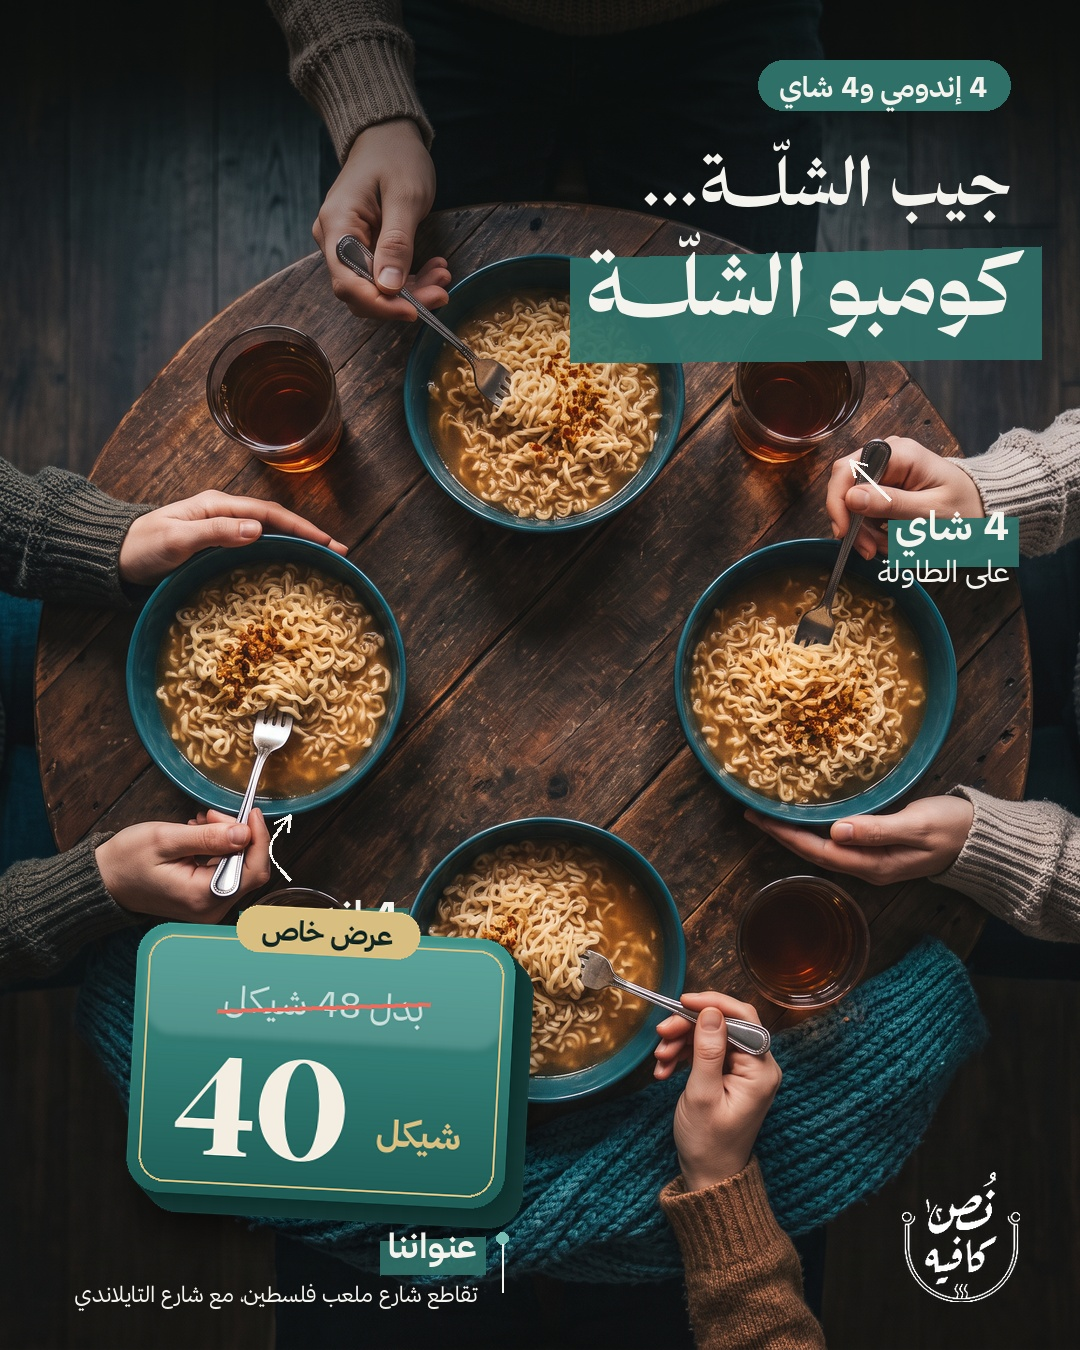
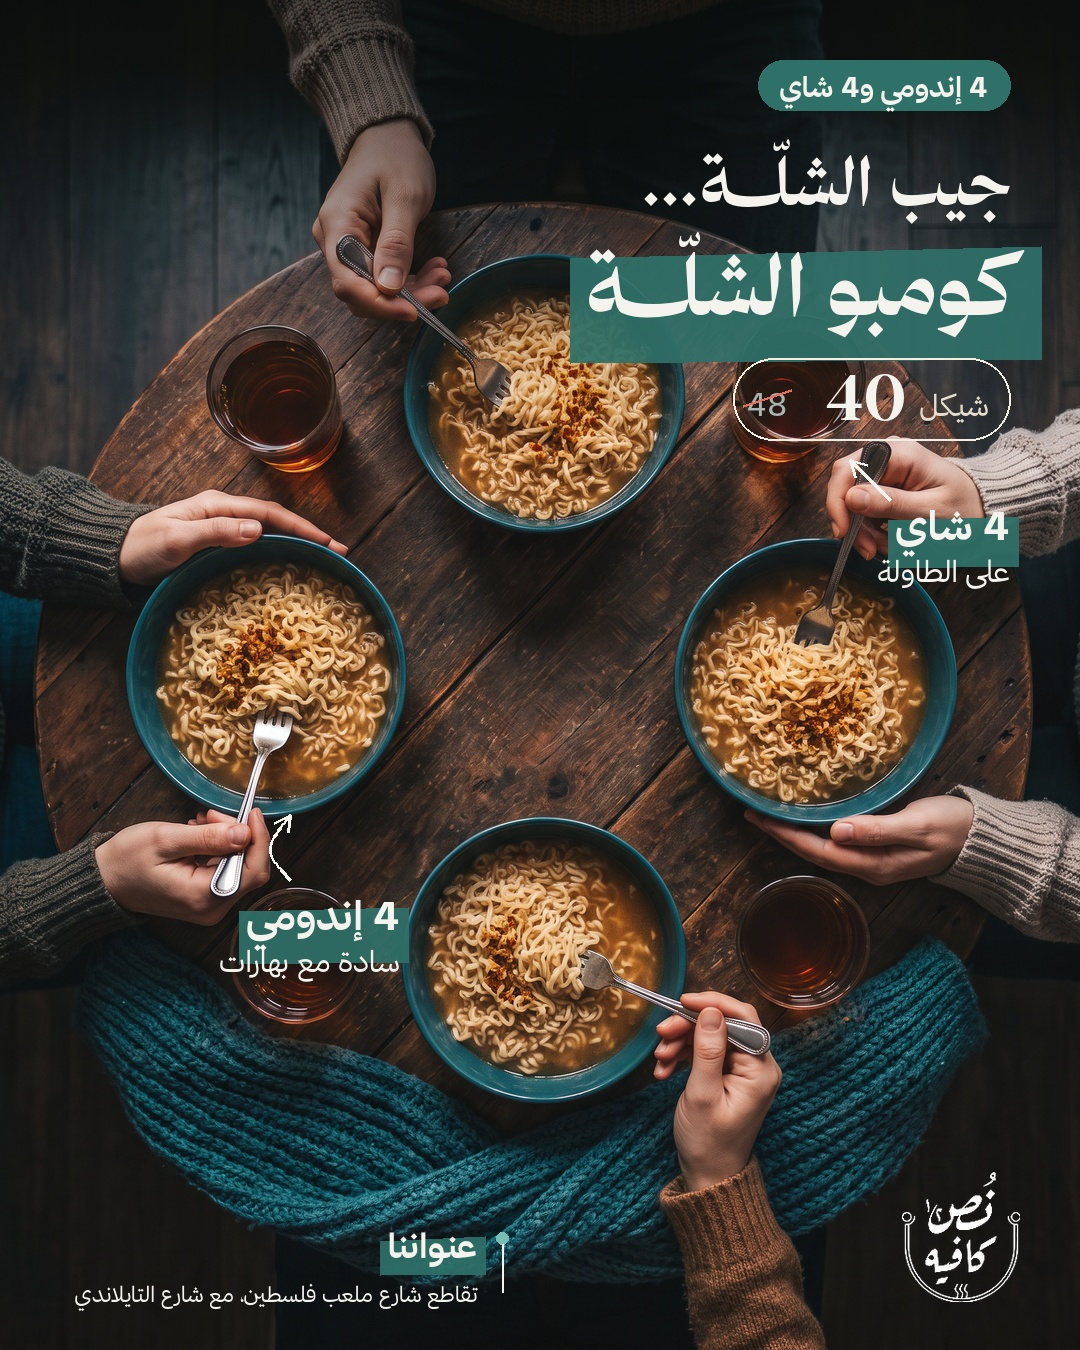
Combos: light, elegant price pill under headline
Claude-Session: https://claude.ai/code/session_015dwSS3fWoFBppmEP84oyNx

Changed region(s): [[0.0917, 0.6533, 0.5194, 0.9333], [0.7639, 0.28, 0.9167, 0.3111], [0.6722, 0.28, 0.7333, 0.3111]]

diff --git a/tools/combos.py b/tools/combos.py
@@ -92,6 +92,17 @@ def price_box(img,cx,cy,old,new,tag='عرض خاص',rot=-3):
     x=int(cx-lay.width/2); y=int(cy-lay.height/2); x=max(-pad+10,min(W-lay.width+pad-10,x))
     img.alpha_composite(lay,(x,y))
 
+def price_light(img,old,new,XR=1010,y=420):
+    d=ImageDraw.Draw(img); fN=DB(64); fS=SR(30); fO=SR(32)
+    sh='شيكل'; ws=tw(d,sh,fS); nb=d.textbbox((0,0),new,font=fN); wn=nb[2]-nb[0]; wo=d.textbbox((0,0),old,font=fO)[2]
+    gap=14; total=ws+gap+wn+34+wo; x0=XR-total-34; y0=y-62; y1=y+20
+    d.rounded_rectangle([x0,y0,XR,y1],radius=(y1-y0)/2,outline=(244,238,226),width=2)
+    x=XR-20
+    d.text((x,y-4),sh,font=fS,fill=(230,222,205),direction='rtl',anchor='rs'); x-=ws+gap
+    d.text((x,y),new,font=fN,fill=WHITE,anchor='rs'); x-=wn+34
+    d.text((x,y-4),old,font=fO,fill=(170,180,176),anchor='rs')
+    d.line([(x-wo-4,y-14),(x+4,y-30)],fill=(232,110,96),width=3)
+
 def price(img,cx,cy,num,sub=None):
     d=ImageDraw.Draw(img); r=105
     d.ellipse([cx-r,cy-r,cx+r,cy+r],fill=(241,234,221)); d.ellipse([cx-r+10,cy-r+10,cx+r-10,cy+r-10],outline=TEAL,width=3)
@@ -129,7 +140,7 @@ for src_,name,pill,l1,l2,labs,pr,cap in C:
     for lab in labs:
         if len(lab)==3: auto_label(im,*lab)
         else: mlabel(im,*lab)
-    price_box(im,pr[2],pr[3],pr[0],pr[1])
+    price_light(im,pr[0],pr[1])
     footer_c(im); im.convert('RGB').save(O+name+'.jpg',quality=95); caps.append((name,cap))
 sh=Image.new('RGB',(3*400+20,1010),(30,30,30))
 for i,(n,_) in enumerate(caps): sh.paste(Image.open(O+n+'.jpg').resize((400,500)),((i%3)*410,(i//3)*510))

diff --git a/CLAUDE.md b/CLAUDE.md
@@ -69,6 +69,7 @@ The owner wants generation fully hooked up so Claude can work alone.
 - **Keep the place details.** The owner tried a blurred background and reverted it; they prefer the scene visible. Frame the scene so the top is calm for the text.
 - **Indomie is served plain with spices only.** No egg, cheese or vegetables.
 - **Keep the original style.** That means a dark cinematic generated scene, the headline top-right with a teal highlight, the product label with an arrow, and the footer, as in winter_humor and world20. The owner rejected flat graphic or cutout "modern" layouts (`posts/modern/`, called "هبل") and doodle-heavy redesigns. Don't propose new visual directions unless asked.
+- **Offer prices are light and elegant.** Use a thin outlined pill under the headline with the new price, "شيكل", and the old price small and struck through (`price_light` in `tools/combos.py`). The owner rejected a yellow banner and a 3D box.
 - **No posts made from the plain menu/studio photos with a dark grade.** The owner rejected this (`posts/who_winter/`). Every post needs a generated scene with an idea, like the winter_humor series.
 
 ## Editorial layouts (`tools/world20_layouts.py`)
